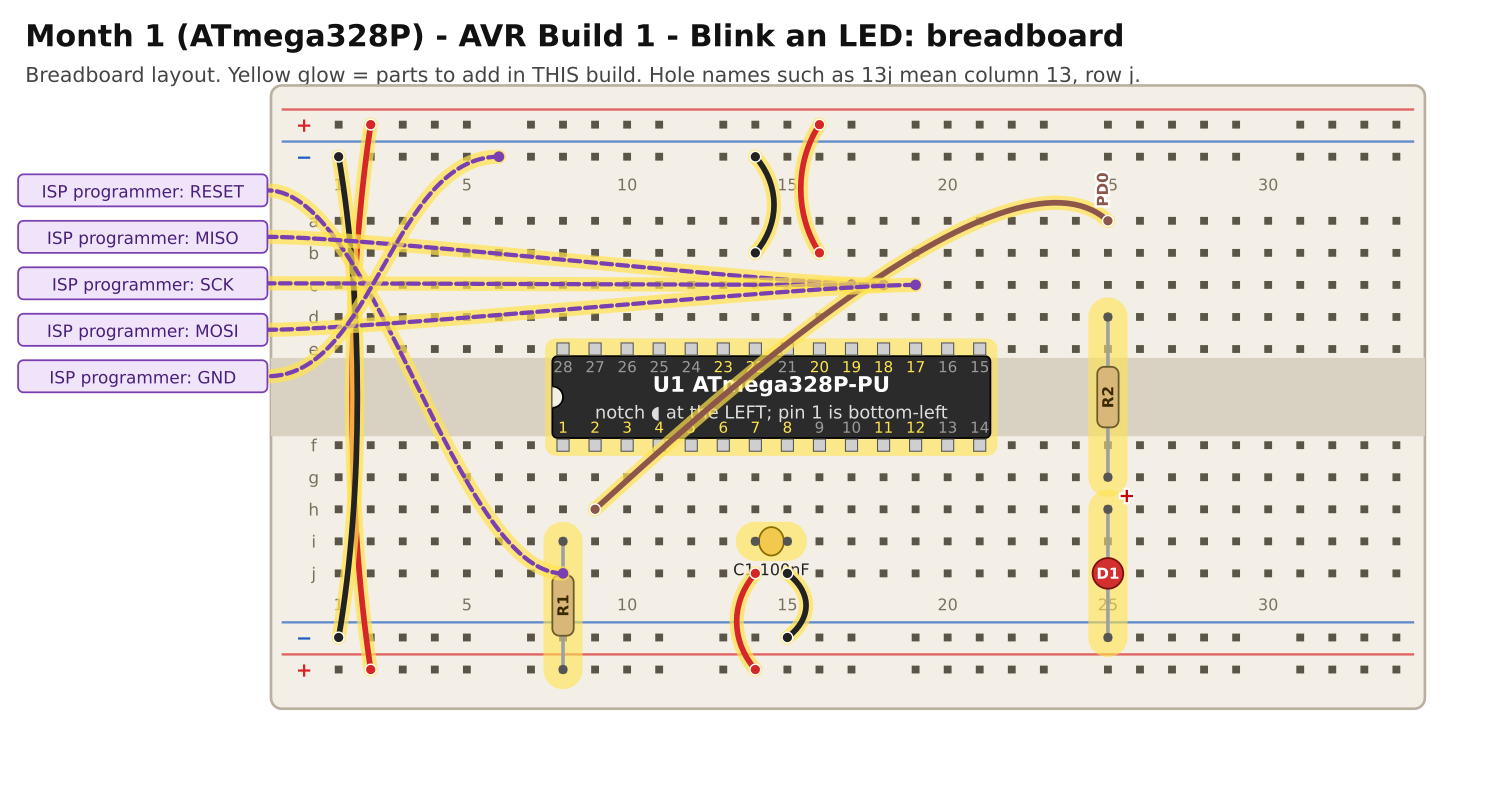
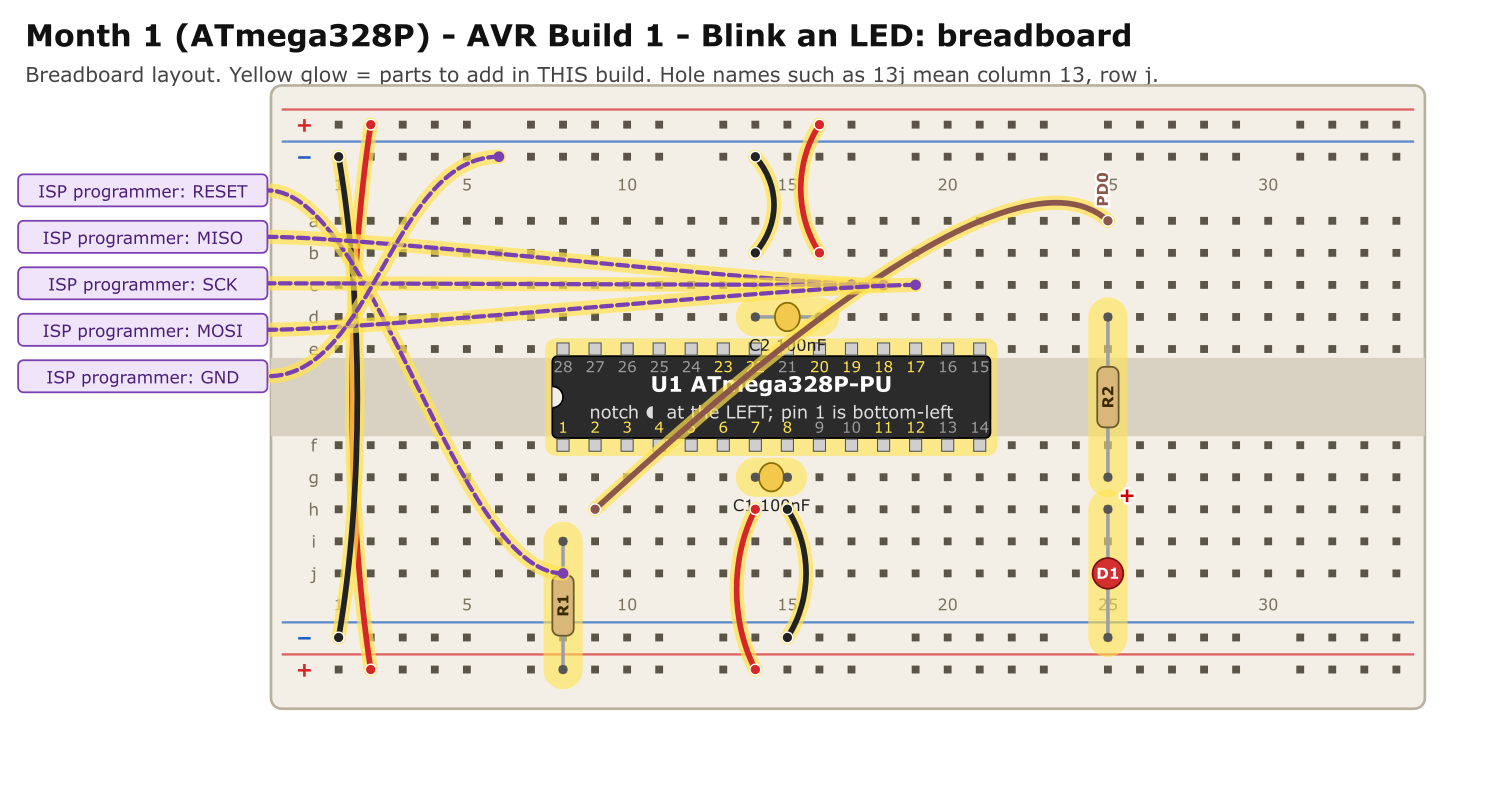
Month 01 AVR1-Blink Validated

diff --git a/maintainer/tools/circuits.py b/maintainer/tools/circuits.py
@@ -101,7 +101,7 @@ def month1_avr():
     b = Board(c)
     b.ic("U1", 8, 1)
     b.wire("TP2", "BP2", 1, "+5V"); b.wire("TN1", "BN1", 1, "GND")
-    b.wire("14j", "BP14", 1, "+5V"); b.wire("15j", "BN15", 1, "GND"); b.two("C1", "14i", "15i", 1)
+    b.wire("14h", "BP14", 1, "+5V"); b.wire("15h", "BN15", 1, "GND"); b.two("C1", "14g", "15g", 1)
     b.wire("16b", "TP16", 1, "+5V"); b.wire("14b", "TN14", 1, "GND"); b.two("C2", "16d", "14d", 1)
     b.two("R1", "8i", "BP8", 1)
     b.lead("J1", 4, "8j", 1, "RESET"); b.lead("J1", 1, "18c", 1, "MISO"); b.lead("J1", 2, "17c", 1, "SCK")

diff --git a/maintainer/VERIFICATION_LOG.md b/maintainer/VERIFICATION_LOG.md
@@ -4,30 +4,30 @@ An honest record of what has been checked. Update it whenever a build is compile
 
 **Levels:** Yes = done · Not yet = still to do · n/a = not applicable
 
-| Month | Build             |         Logic simulation          | Mutation-tested | Layout vs schematic | XC compile |                                                       Bench test                                                        |
-| :---: | ----------------- | :-------------------------------: | :-------------: | :-----------------: | :--------: | :---------------------------------------------------------------------------------------------------------------------: |
-| 1 AVR | 1 Blink           |           Yes 3 checks            |       Yes       |         Yes         |  Not yet   |                                                         Not yet                                                         |
-| 1 AVR | 2 Button          |           Yes 6 checks            |       Yes       |         Yes         |  Not yet   |                                                         Not yet                                                         |
-| 1 AVR | 3 Dice            |           Yes 7 checks            |       Yes       |         Yes         |  Not yet   |                                                         Not yet                                                         |
-| 1 PIC | 1 Blink           |           Yes 3 checks            |       Yes       |         Yes         |  Not yet   | Not yet (this circuit and its pins were bench-proven on 2026-08-08 with a blink program; this build's code is untested) |
-| 1 PIC | 2 Button          |           Yes 6 checks            |       Yes       |         Yes         |  Not yet   |                                                         Not yet                                                         |
-| 1 PIC | 3 Dice            |           Yes 6 checks            |       Yes       |         Yes         |  Not yet   |                                                         Not yet                                                         |
-|  1B   | B1 Minimum board  |        n/a (Arduino tools)        |       n/a       |         Yes         |  Not yet   |                                                         Not yet                                                         |
-|  1B   | B2 Programmer     | n/a (standard ArduinoISP example) |       n/a       |         Yes         |  Not yet   |                                                         Not yet                                                         |
-|  1B   | B3 Program a chip |                n/a                |       n/a       |         Yes         |  Not yet   |                                                         Not yet                                                         |
-|   2   | 1 Blink           |           Yes 3 checks            |       n/a       |         Yes         |  Not yet   |                                                         Not yet                                                         |
-|   2   | 2 Hello expander  |           Yes 16 checks           |       Yes       |         Yes         |  Not yet   |                                                         Not yet                                                         |
-|   2   | 3 LED chase       |           Yes 14 checks           |       Yes       |         Yes         |  Not yet   |                                                         Not yet                                                         |
-|   2   | 4 Command centre  |           Yes 19 checks           |       Yes       |         Yes         |  Not yet   |                                                         Not yet                                                         |
-|   3   | 1 ADC bar graph   |           Yes 14 checks           |       Yes       |         Yes         |  Not yet   |                                                         Not yet                                                         |
-|   3   | 2 DAC             |           Yes 11 checks           |       Yes       |         Yes         |  Not yet   |                                                         Not yet                                                         |
-|   3   | 3 Loop-back       |           Yes 11 checks           |       Yes       |         Yes         |  Not yet   |                                                         Not yet                                                         |
-|   4   | 1 Blink (port)    |           Yes 3 checks            |       n/a       |         Yes         |  Not yet   |                                                         Not yet                                                         |
-|   4   | 2 RTC hello       |           Yes 13 checks           |       Yes       |         Yes         |  Not yet   |                                                         Not yet                                                         |
-|   4   | 3 Binary clock    |           Yes 12 checks           |       Yes       |         Yes         |  Not yet   |                                                         Not yet                                                         |
-|   5   | 1 Blink at 3.3 V  |           Yes 3 checks            |       n/a       |         Yes         |  Not yet   |                                                         Not yet                                                         |
-|   5   | 2 EEPROM hello    |           Yes 14 checks           |       Yes       |         Yes         |  Not yet   |                                                         Not yet                                                         |
-|   5   | 3 Boot counter    |           Yes 15 checks           |       Yes       |         Yes         |  Not yet   |                                                         Not yet                                                         |
+| Month | Build             |         Logic simulation          | Mutation-tested | Layout vs schematic | XC compile | Bench test |
+| :---: | ----------------- | :-------------------------------: | :-------------: | :-----------------: | :--------: | :--------: |
+| 1 AVR | 1 Blink           |           Yes 3 checks            |       Yes       |         Yes         |    N/A     |    Yes     |
+| 1 AVR | 2 Button          |           Yes 6 checks            |       Yes       |         Yes         |  Not yet   |  Not yet   |
+| 1 AVR | 3 Dice            |           Yes 7 checks            |       Yes       |         Yes         |  Not yet   |  Not yet   |
+| 1 PIC | 1 Blink           |           Yes 3 checks            |       Yes       |         Yes         |  Not yet   |  Not yet   |
+| 1 PIC | 2 Button          |           Yes 6 checks            |       Yes       |         Yes         |  Not yet   |  Not yet   |
+| 1 PIC | 3 Dice            |           Yes 6 checks            |       Yes       |         Yes         |  Not yet   |  Not yet   |
+|  1B   | B1 Minimum board  |        n/a (Arduino tools)        |       n/a       |         Yes         |  Not yet   |  Not yet   |
+|  1B   | B2 Programmer     | n/a (standard ArduinoISP example) |       n/a       |         Yes         |  Not yet   |  Not yet   |
+|  1B   | B3 Program a chip |                n/a                |       n/a       |         Yes         |  Not yet   |  Not yet   |
+|   2   | 1 Blink           |           Yes 3 checks            |       n/a       |         Yes         |  Not yet   |  Not yet   |
+|   2   | 2 Hello expander  |           Yes 16 checks           |       Yes       |         Yes         |  Not yet   |  Not yet   |
+|   2   | 3 LED chase       |           Yes 14 checks           |       Yes       |         Yes         |  Not yet   |  Not yet   |
+|   2   | 4 Command centre  |           Yes 19 checks           |       Yes       |         Yes         |  Not yet   |  Not yet   |
+|   3   | 1 ADC bar graph   |           Yes 14 checks           |       Yes       |         Yes         |  Not yet   |  Not yet   |
+|   3   | 2 DAC             |           Yes 11 checks           |       Yes       |         Yes         |  Not yet   |  Not yet   |
+|   3   | 3 Loop-back       |           Yes 11 checks           |       Yes       |         Yes         |  Not yet   |  Not yet   |
+|   4   | 1 Blink (port)    |           Yes 3 checks            |       n/a       |         Yes         |  Not yet   |  Not yet   |
+|   4   | 2 RTC hello       |           Yes 13 checks           |       Yes       |         Yes         |  Not yet   |  Not yet   |
+|   4   | 3 Binary clock    |           Yes 12 checks           |       Yes       |         Yes         |  Not yet   |  Not yet   |
+|   5   | 1 Blink at 3.3 V  |           Yes 3 checks            |       n/a       |         Yes         |  Not yet   |  Not yet   |
+|   5   | 2 EEPROM hello    |           Yes 14 checks           |       Yes       |         Yes         |  Not yet   |  Not yet   |
+|   5   | 3 Boot counter    |           Yes 15 checks           |       Yes       |         Yes         |  Not yet   |  Not yet   |
 
 ## What the simulation does establish
 
@@ -40,16 +40,16 @@ Deliberately broken copies of the code were run through the tests (wrong address
 
 ## Confirmed against published sources during review
 
-|  #  | Item                                                                                                                                                                                                                                                     | Source of confirmation                                                            |
-| :-: | -------------------------------------------------------------------------------------------------------------------------------------------------------------------------------------------------------------------------------------------------------- | --------------------------------------------------------------------------------- |
-|  1  | PIC18F47K42 `#pragma config` names and values used in Months 2 and 3 (`FEXTOSC`, `RSTOSC = HFINTOSC_64MHZ`, `CLKOUTEN`, `CSWEN`, `FCMEN`, `WDTE`, `LVP`, `XINST`), and `OSCFRQ = 0x08` for 64 MHz                                                        | published example code and forum posts using MCC-generated K42 code               |
-|  2  | PIC16F18446 20-pin pin table (VDD 1, MCLR/RA3 4, RC0 16, RC3 to RC7 on 7, 6, 5, 8, 9, RB4 to RB7 on 13, 12, 11, 10, RA0 19, RA1 18, VSS 20)                                                                                                              | Microchip's pin allocation table                                                  |
-|  3  | PIC16F18446 `RSTOSC = HFINT1` is valid, and `OSCFRQ = 0x07` is 32 MHz on that family                                                                                                                                                                     | published project code                                                            |
-|  4  | MCP4822 8-pin pin table (1 VDD, 2 CS, 3 SCK, 4 SDI, 5 LDAC, 6 VOUTB, 7 VSS, 8 VOUTA)                                                                                                                                                                     | Microchip datasheet text                                                          |
-|  5  | MCP7940N pin order, and that it needs **external crystal load capacitors**                                                                                                                                                                               | Microchip datasheet text                                                          |
-|  6  | PIC24FJ64GA002-family `#pragma config` names (`JTAGEN`, `GCP`, `GWRP`, `ICS = PGx1`, `FWDTEN`, `WINDIS`, `FWPSA`, `WDTPS`, `POSCMOD`, `OSCIOFNC`, `FCKSM`, `FNOSC = FRC`), `CLKDIV = 0`, `AD1PCFG = 0xFFFF`, and the `FCY` + `<libpic30.h>` delay method | published XC16 example for a closely related device; Microchip XC16 documentation |
-|  7  | PlatformIO settings for the AVR track (`board_build.f_cpu = 1000000L`, `upload_protocol = stk500v1` with `-P$UPLOAD_PORT -b$UPLOAD_SPEED` for an Arduino as ISP, `usbasp` with `-Pusb`)                                                                  | PlatformIO documentation                                                          |
-|  8  | ArduinoISP pin use (D10 reset, D11 MOSI, D12 MISO, D13 SCK, LEDs on D9, D8, D7)                                                                                                                                                                          | Arduino documentation                                                             |
+|   #   | Item                                                                                                                                                                                                                                                     | Source of confirmation                                                            |
+| :---: | -------------------------------------------------------------------------------------------------------------------------------------------------------------------------------------------------------------------------------------------------------- | --------------------------------------------------------------------------------- |
+|   1   | PIC18F47K42 `#pragma config` names and values used in Months 2 and 3 (`FEXTOSC`, `RSTOSC = HFINTOSC_64MHZ`, `CLKOUTEN`, `CSWEN`, `FCMEN`, `WDTE`, `LVP`, `XINST`), and `OSCFRQ = 0x08` for 64 MHz                                                        | published example code and forum posts using MCC-generated K42 code               |
+|   2   | PIC16F18446 20-pin pin table (VDD 1, MCLR/RA3 4, RC0 16, RC3 to RC7 on 7, 6, 5, 8, 9, RB4 to RB7 on 13, 12, 11, 10, RA0 19, RA1 18, VSS 20)                                                                                                              | Microchip's pin allocation table                                                  |
+|   3   | PIC16F18446 `RSTOSC = HFINT1` is valid, and `OSCFRQ = 0x07` is 32 MHz on that family                                                                                                                                                                     | published project code                                                            |
+|   4   | MCP4822 8-pin pin table (1 VDD, 2 CS, 3 SCK, 4 SDI, 5 LDAC, 6 VOUTB, 7 VSS, 8 VOUTA)                                                                                                                                                                     | Microchip datasheet text                                                          |
+|   5   | MCP7940N pin order, and that it needs **external crystal load capacitors**                                                                                                                                                                               | Microchip datasheet text                                                          |
+|   6   | PIC24FJ64GA002-family `#pragma config` names (`JTAGEN`, `GCP`, `GWRP`, `ICS = PGx1`, `FWDTEN`, `WINDIS`, `FWPSA`, `WDTPS`, `POSCMOD`, `OSCIOFNC`, `FCKSM`, `FNOSC = FRC`), `CLKDIV = 0`, `AD1PCFG = 0xFFFF`, and the `FCY` + `<libpic30.h>` delay method | published XC16 example for a closely related device; Microchip XC16 documentation |
+|   7   | PlatformIO settings for the AVR track (`board_build.f_cpu = 1000000L`, `upload_protocol = stk500v1` with `-P$UPLOAD_PORT -b$UPLOAD_SPEED` for an Arduino as ISP, `usbasp` with `-Pusb`)                                                                  | PlatformIO documentation                                                          |
+|   8   | ArduinoISP pin use (D10 reset, D11 MOSI, D12 MISO, D13 SCK, LEDs on D9, D8, D7)                                                                                                                                                                          | Arduino documentation                                                             |
 
 "Confirmed" here means the names and values match published sources. **None of it has been compiled with the real XC compilers in this environment.**
 
@@ -57,26 +57,26 @@ Deliberately broken copies of the code were run through the tests (wrong address
 
 Please check these first when you compile and test.
 
-|  #  | Assumption                                                                                                                                                                                                                                               | Where                      | How to confirm                                                                                                                               |
-| :-: | -------------------------------------------------------------------------------------------------------------------------------------------------------------------------------------------------------------------------------------------------------- | -------------------------- | -------------------------------------------------------------------------------------------------------------------------------------------- |
-|  1  | The **PICkit 3 supports** the PIC18F47K42, PIC16F18446 and PIC24FJ64GA002 in MPLAB X v6.20                                                                                                                                                               | Months 2 to 5              | the tool list in the new-project wizard; a successful program                                                                                |
-|  2  | Pin numbers for the PIC18F47K42 (40-pin PDIP), MCP23017, MCP3008, 24LC512, ATmega328P and PIC24FJ64GA002 (28-pin SPDIP) were taken from recalled datasheet tables; the PIC16F18857 pins are bench-proven for RC0 and the power pins                      | all schematics and layouts | compare each chip's pin table with its datasheet once; the layout checker proves internal consistency, not correctness against the datasheet |
-|  3  | A 600-mil 40-pin DIP straddles an 830-point breadboard with pins in rows d and h                                                                                                                                                                         | Months 2 and 3             | try it; some boards are tighter                                                                                                              |
-|  4  | The rail split is after column 31; the red/blue order of the rails varies by board                                                                                                                                                                       | all layouts                | the pages tell learners to check their own board                                                                                             |
-|  5  | Whole-register names (`ANSELx`, `TRISx`, `LATx`, `PORTx`, `WPUA`, `OSCFRQ`, `CLKDIV`, `AD1PCFG`) exist for each device                                                                                                                                   | all `main.c`               | compile                                                                                                                                      |
-|  6  | The AVR track: the chip's factory fuses give 1 MHz; `-B10` is slow enough for a factory-fresh chip with your USBasp; the USBasp header numbering matches your board; an Uno works as programmer without the reset capacitor                              | AVR track                  | `avrdude ... -B 10` should print the signature 0x1e950f; blink speed shows the clock                                                         |
-|  7  | Part B: Arduino IDE menu names and messages match the IDE version you install; the ATmega328P pin table                                                                                                                                                  | Part B                     | try it; compare with the datasheet                                                                                                           |
-|  8  | Month 3: MCP3008 pin table and the 3-byte read; the MCP4822 gain-2x setting gives 1 mV per step; the loop-back test limits (readings rise by at least 60 counts per step; 3.5 V reads 600 to 850 counts) are loose enough for a real 4.5 to 5.5 V supply | Month 3                    | run it; try different supply voltages                                                                                                        |
-|  9  | Month 4: the MCP7940N register bits (`ST`, `OSCRUN`, `VBATEN`), I2C address 0x6F, crystal load capacitors of about 10 pF, and VBAT tied to ground when there is no battery                                                                               | Month 4                    | compare with the datasheet; the clock should count one step a second                                                                         |
-| 10  | Month 5: the PIC24's VCAP capacitor value and type, the 3.3 V supply range (do not exceed about 3.6 V), the I2C pins RB8/RB9 being usable as plain I/O, and the 24LC512 (address 0x50, 128-byte page, 5 ms write cycle, about a million writes)          | Month 5                    | compare with the datasheets                                                                                                                  |
-| 11  | `__TIME__` is supported by XC8 and returns "hh:mm:ss"                                                                                                                                                                                                    | Month 4                    | compile; the clock should start near the build time                                                                                          |
-| 12  | Free-sample limits and stock for every part used                                                                                                                                                                                                         | each month's README        | check Microchip's sample page                                                                                                                |
-| 13  | Typical prices in the ordering guide                                                                                                                                                                                                                     | ordering guide             | adjust to what you actually paid                                                                                                             |
-| 14  | The Microchip product-page link pattern (`microchip.com/en-us/product/<part>`) and the marketplace search links in the purchasing plan and parts catalogue                                                                                               | purchasing plan, catalogue | click a few; search the part number if one has moved                                                                                         |
-| 15  | Chips planned for Months 6 to 24 exist as through-hole parts in the sample store; the supply ranges and pin counts in the catalogue are from recalled datasheet data                                                                                     | purchasing plan, catalogue | check each chip before ordering (see the notes file)                                                                                         |
-| 16  | The suggested KiCad footprints in `hardware/exports/*-bom.csv` match your actual parts                                                                                                                                                                   | hardware exports           | check each when you draw a schematic                                                                                                         |
-| 17  | The lab-stock quantities for Months 6 to 24 are estimates; Months 1 to 5 are computed from the verified circuits                                                                                                                                         | purchasing plan            | adjust `course_data.py` as each month is written                                                                                             |
-| 18  | Breadboard row letters: the pictures use row a at the top and j at the bottom; some boards print them the other way up. The basics page now explains how to map them, and every placement table has a Pin(s) column as a letter-independent check        | all layouts                | check your board's printing against the pictures                                                                                             |
+|   #   | Assumption                                                                                                                                                                                                                                               | Where                      | How to confirm                                                                                                                               |
+| :---: | -------------------------------------------------------------------------------------------------------------------------------------------------------------------------------------------------------------------------------------------------------- | -------------------------- | -------------------------------------------------------------------------------------------------------------------------------------------- |
+|   1   | The **PICkit 3 supports** the PIC18F47K42, PIC16F18446 and PIC24FJ64GA002 in MPLAB X v6.20                                                                                                                                                               | Months 2 to 5              | the tool list in the new-project wizard; a successful program                                                                                |
+|   2   | Pin numbers for the PIC18F47K42 (40-pin PDIP), MCP23017, MCP3008, 24LC512, ATmega328P and PIC24FJ64GA002 (28-pin SPDIP) were taken from recalled datasheet tables; the PIC16F18857 pins are bench-proven for RC0 and the power pins                      | all schematics and layouts | compare each chip's pin table with its datasheet once; the layout checker proves internal consistency, not correctness against the datasheet |
+|   3   | A 600-mil 40-pin DIP straddles an 830-point breadboard with pins in rows d and h                                                                                                                                                                         | Months 2 and 3             | try it; some boards are tighter                                                                                                              |
+|   4   | The rail split is after column 31; the red/blue order of the rails varies by board                                                                                                                                                                       | all layouts                | the pages tell learners to check their own board                                                                                             |
+|   5   | Whole-register names (`ANSELx`, `TRISx`, `LATx`, `PORTx`, `WPUA`, `OSCFRQ`, `CLKDIV`, `AD1PCFG`) exist for each device                                                                                                                                   | all `main.c`               | compile                                                                                                                                      |
+|   6   | The AVR track: the chip's factory fuses give 1 MHz; `-B10` is slow enough for a factory-fresh chip with your USBasp; the USBasp header numbering matches your board; an Uno works as programmer without the reset capacitor                              | AVR track                  | `avrdude ... -B 10` should print the signature 0x1e950f; blink speed shows the clock                                                         |
+|   7   | Part B: Arduino IDE menu names and messages match the IDE version you install; the ATmega328P pin table                                                                                                                                                  | Part B                     | try it; compare with the datasheet                                                                                                           |
+|   8   | Month 3: MCP3008 pin table and the 3-byte read; the MCP4822 gain-2x setting gives 1 mV per step; the loop-back test limits (readings rise by at least 60 counts per step; 3.5 V reads 600 to 850 counts) are loose enough for a real 4.5 to 5.5 V supply | Month 3                    | run it; try different supply voltages                                                                                                        |
+|   9   | Month 4: the MCP7940N register bits (`ST`, `OSCRUN`, `VBATEN`), I2C address 0x6F, crystal load capacitors of about 10 pF, and VBAT tied to ground when there is no battery                                                                               | Month 4                    | compare with the datasheet; the clock should count one step a second                                                                         |
+|  10   | Month 5: the PIC24's VCAP capacitor value and type, the 3.3 V supply range (do not exceed about 3.6 V), the I2C pins RB8/RB9 being usable as plain I/O, and the 24LC512 (address 0x50, 128-byte page, 5 ms write cycle, about a million writes)          | Month 5                    | compare with the datasheets                                                                                                                  |
+|  11   | `__TIME__` is supported by XC8 and returns "hh:mm:ss"                                                                                                                                                                                                    | Month 4                    | compile; the clock should start near the build time                                                                                          |
+|  12   | Free-sample limits and stock for every part used                                                                                                                                                                                                         | each month's README        | check Microchip's sample page                                                                                                                |
+|  13   | Typical prices in the ordering guide                                                                                                                                                                                                                     | ordering guide             | adjust to what you actually paid                                                                                                             |
+|  14   | The Microchip product-page link pattern (`microchip.com/en-us/product/<part>`) and the marketplace search links in the purchasing plan and parts catalogue                                                                                               | purchasing plan, catalogue | click a few; search the part number if one has moved                                                                                         |
+|  15   | Chips planned for Months 6 to 24 exist as through-hole parts in the sample store; the supply ranges and pin counts in the catalogue are from recalled datasheet data                                                                                     | purchasing plan, catalogue | check each chip before ordering (see the notes file)                                                                                         |
+|  16   | The suggested KiCad footprints in `hardware/exports/*-bom.csv` match your actual parts                                                                                                                                                                   | hardware exports           | check each when you draw a schematic                                                                                                         |
+|  17   | The lab-stock quantities for Months 6 to 24 are estimates; Months 1 to 5 are computed from the verified circuits                                                                                                                                         | purchasing plan            | adjust `course_data.py` as each month is written                                                                                             |
+|  18   | Breadboard row letters: the pictures use row a at the top and j at the bottom; some boards print them the other way up. The basics page now explains how to map them, and every placement table has a Pin(s) column as a letter-independent check        | all layouts                | check your board's printing against the pictures                                                                                             |
 
 ## Not yet written
 

diff --git a/month-01-electronic-dice/avr-1-blink.md b/month-01-electronic-dice/avr-1-blink.md
@@ -36,9 +36,9 @@ The ground symbol is the **GND** rail and the **+5 V** bar is the supply rail.
 |    1 | U1 ATmega328P-PU           |    1    | Pin 1 in hole **8f**, notch to the **left** (towards the lower column numbers). Pins 1–14 run along row f (columns 8–21); pins 15–28 run back along row e. | Skinny (300 mil) chip: one row of pins each side of the centre channel (rows e and f).           |
 |    2 | jumper wire                |    –    | top **red** rail (+), near column 2 → bottom **red** rail (+), near column 2                                                                               | +5 V power (red) After placing it, **check the power**: measure across the rails with the meter. |
 |    3 | jumper wire                |    –    | top **blue** rail (−), near column 1 → bottom **blue** rail (−), near column 1                                                                             | ground (black) After placing it, **check the power**: measure across the rails with the meter.   |
-|    4 | jumper wire                |    7    | **14j** → bottom **red** rail (+), near column 14                                                                                                          | +5 V power (red)                                                                                 |
-|    5 | jumper wire                |    8    | **15j** → bottom **blue** rail (−), near column 15                                                                                                         | ground (black)                                                                                   |
-|    6 | C1 100nF capacitor         |  7 / 8  | **14i** and **15i**                                                                                                                                        | ceramic: either way round; keep the legs short                                                   |
+|    4 | jumper wire                |    7    | **14h** → bottom **red** rail (+), near column 14                                                                                                          | +5 V power (red)                                                                                 |
+|    5 | jumper wire                |    8    | **15h** → bottom **blue** rail (−), near column 15                                                                                                         | ground (black)                                                                                   |
+|    6 | C1 100nF capacitor         |  7 / 8  | **14g** and **15g**                                                                                                                                        | ceramic: either way round; keep the legs short                                                   |
 |    7 | jumper wire                |   20    | **16b** → top **red** rail (+), near column 16                                                                                                             | +5 V power (red)                                                                                 |
 |    8 | jumper wire                |   22    | **14b** → top **blue** rail (−), near column 14                                                                                                            | ground (black)                                                                                   |
 |    9 | C2 100nF capacitor         | 20 / 22 | **16d** and **14d**                                                                                                                                        | ceramic: either way round; keep the legs short                                                   |
